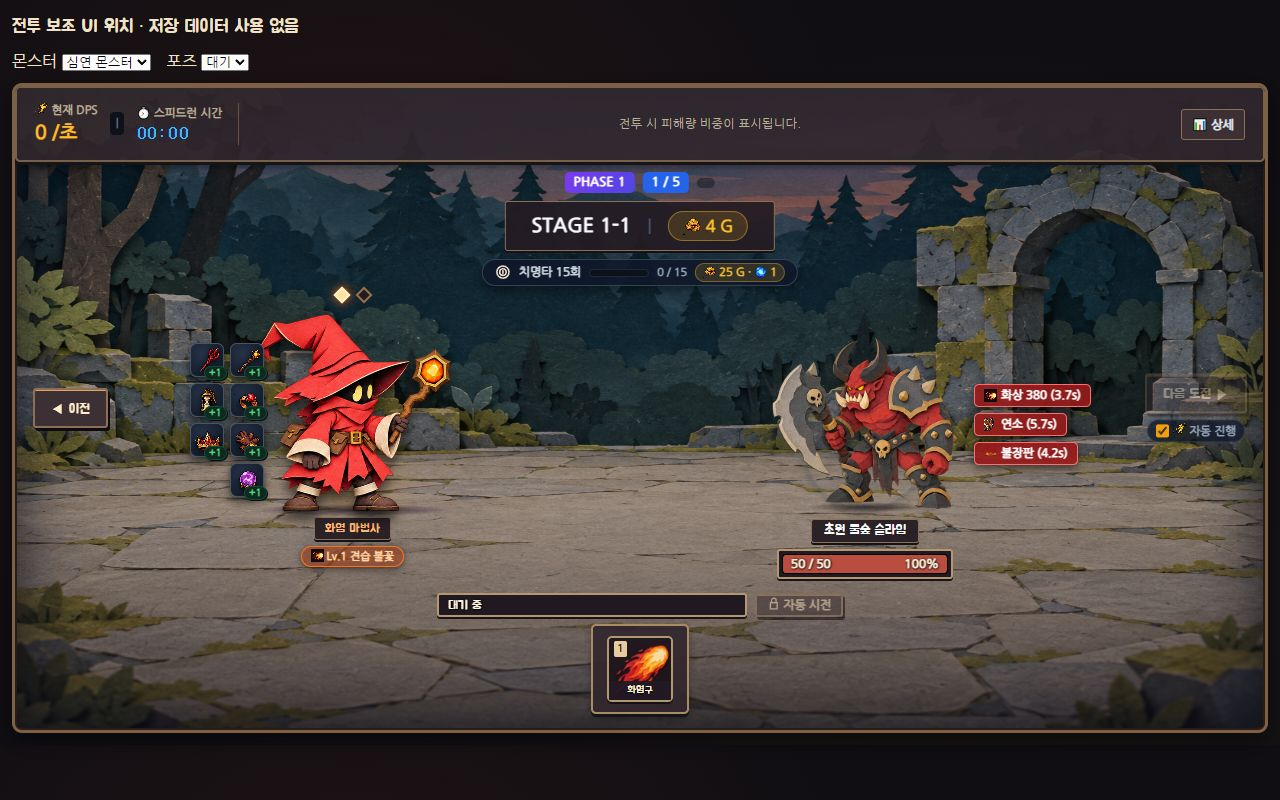
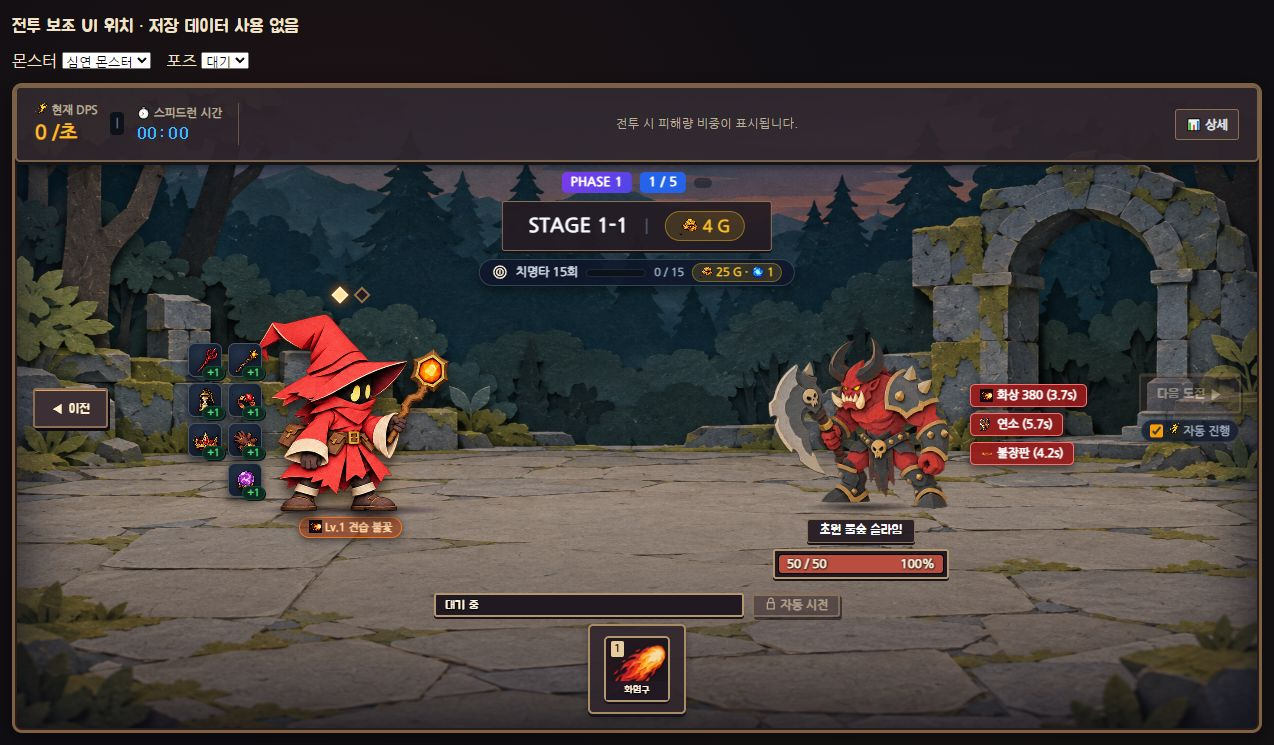
fix: 캐릭터 이름표와 중복 소환물 상태 배지 제거

diff --git a/paper-ui-layout-preview.html b/paper-ui-layout-preview.html
@@ -1,4 +1,4 @@
-<!doctype html><html lang="ko"><meta charset="utf-8"><meta name="viewport" content="width=device-width,initial-scale=1"><title>전투 보조 UI 위치 검증</title><link rel="stylesheet" href="styles.css"><link rel="stylesheet" href="art.css"><link rel="stylesheet" href="paper-ui.css?v=paper-ui-layout-2"><style>body{height:auto;overflow:auto;padding:12px;gap:12px}h1{font-size:18px}.combat-arena{flex:none;height:650px;min-height:650px;max-height:none}.controls{display:flex;gap:16px;flex-wrap:wrap}@media(max-width:768px){.combat-arena{height:550px;min-height:550px}}</style><h1>전투 보조 UI 위치 · 저장 데이터 사용 없음</h1><div class="controls"><label>몬스터 <select id="preview-monster"><option value="19">심연 몬스터</option><option value="20">거대 보스</option><option value="4">고블린</option></select></label><label>포즈 <select id="preview-pose"><option value="idle">대기</option><option value="anticipation">준비</option><option value="release">발사</option><option value="recoil">반동</option></select></label></div>      <div class="combat-arena" id="combat-arena">
+<!doctype html><html lang="ko"><meta charset="utf-8"><meta name="viewport" content="width=device-width,initial-scale=1"><title>전투 보조 UI 위치 검증</title><link rel="stylesheet" href="styles.css"><link rel="stylesheet" href="art.css"><link rel="stylesheet" href="paper-ui.css?v=paper-ui-minimal-3"><style>body{height:auto;overflow:auto;padding:12px;gap:12px}h1{font-size:18px}.combat-arena{flex:none;height:650px;min-height:650px;max-height:none}.controls{display:flex;gap:16px;flex-wrap:wrap}@media(max-width:768px){.combat-arena{height:550px;min-height:550px}}</style><h1>전투 보조 UI 위치 · 저장 데이터 사용 없음</h1><div class="controls"><label>몬스터 <select id="preview-monster"><option value="19">심연 몬스터</option><option value="20">거대 보스</option><option value="4">고블린</option></select></label><label>포즈 <select id="preview-pose"><option value="idle">대기</option><option value="anticipation">준비</option><option value="release">발사</option><option value="recoil">반동</option></select></label></div>      <div class="combat-arena" id="combat-arena">
         <canvas class="arena-environment-canvas" id="arena-environment-canvas" aria-hidden="true"></canvas>
         <div class="combustion-aura-bg" id="combustion-bg"></div>
 
@@ -127,11 +127,11 @@
               <div class="casting-orb" id="casting-orb"></div>
               <div class="heat-sigils" id="heat-sigils" data-heat="1" aria-label="연속 치명타"><i></i><i></i></div>
             </div>
-            <div class="caster-label">화염 마법사</div>
             <div class="flame-evo-badge evo-tier-1" id="flame-evo-badge" title="주문 공격력과 장비 성장에 따라 화염 마법의 색상·크기·탄막이 5단계로 진화합니다 (클릭 시 진화 정보 확인)">
               🟠 Lv.1 견습 불꽃
             </div>
-            <div class="summon-active-badges" id="summon-active-badges"></div>
+            <!-- 기존 게임 갱신 대상은 유지하되 중복된 소환물 상태 표시는 노출하지 않는다. -->
+            <div class="summon-active-badges hidden" id="summon-active-badges" hidden aria-hidden="true"></div>
           </div>
 
           <!-- 우측 스테이지 몬스터 -->

diff --git a/index.html b/index.html
@@ -9,7 +9,7 @@
   <title>DPS: Fire Mage</title>
   <link rel="stylesheet" href="styles.css?v=magic-circle-ground-2" />
   <link rel="stylesheet" href="art.css?v=paper-monsters-3" />
-  <link rel="stylesheet" href="paper-ui.css?v=paper-ui-layout-2" />
+  <link rel="stylesheet" href="paper-ui.css?v=paper-ui-minimal-3" />
 </head>
 <body>
   <!-- 간소화된 상단 상태바 -->
@@ -222,11 +222,11 @@
               <div class="casting-orb" id="casting-orb"></div>
               <div class="heat-sigils" id="heat-sigils" aria-label="연속 치명타"><i></i><i></i></div>
             </div>
-            <div class="caster-label">화염 마법사</div>
             <div class="flame-evo-badge evo-tier-1" id="flame-evo-badge" title="주문 공격력과 장비 성장에 따라 화염 마법의 색상·크기·탄막이 5단계로 진화합니다 (클릭 시 진화 정보 확인)">
               🟠 Lv.1 견습 불꽃
             </div>
-            <div class="summon-active-badges" id="summon-active-badges"></div>
+            <!-- 기존 게임 갱신 대상은 유지하되 중복된 소환물 상태 표시는 노출하지 않는다. -->
+            <div class="summon-active-badges hidden" id="summon-active-badges" hidden aria-hidden="true"></div>
           </div>
 
           <!-- 우측 스테이지 몬스터 -->

diff --git a/PAPER_UI.md b/PAPER_UI.md
@@ -56,3 +56,7 @@ Production papercraft fantasy game status icon atlas. Exact regular 3 columns x 
 - 실제 HTTP 게임에서 완드를 구매한 뒤 장비 아이콘과 왼쪽 배치를 확인했다. 비교 화면에서는 7종 모두 정상 크기이며 준비·발사·대기 포즈와 대형 몬스터의 배치를 확인했다. 콘솔 오류 없음.
 - 관련 기존 테스트 3개(comic-assets, mage-motion, monster-motion) 통과. `game.js` 변경 없음. `file://` 직접 실행 및 모든 기기 조합은 별도로 검증하지 않았다.
 - 검증 화면: `docs/paper-ui-layout.jpg`.
+
+## 2026-10-07 중복 정보 정리
+
+사용자 첨부 이미지의 파란 상자에 있던 소환물·불장판·연발 상태 배지는 숨기고 캐릭터 이름표는 HTML에서 제거했다. 소환물 옆 기존 이름·레벨과 캐릭터의 접근성 이름은 유지한다. `game.js`가 갱신하는 `summon-active-badges` 요소는 숨긴 채 남겨 널 참조를 방지한다. 신규 원화나 움직임 제작은 없으며 배치 기준은 사용자 첨부 이미지다.
